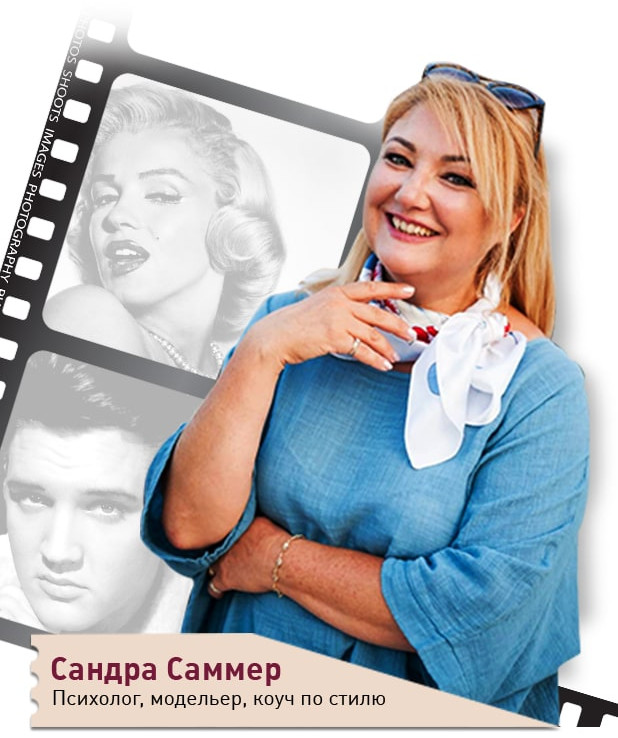
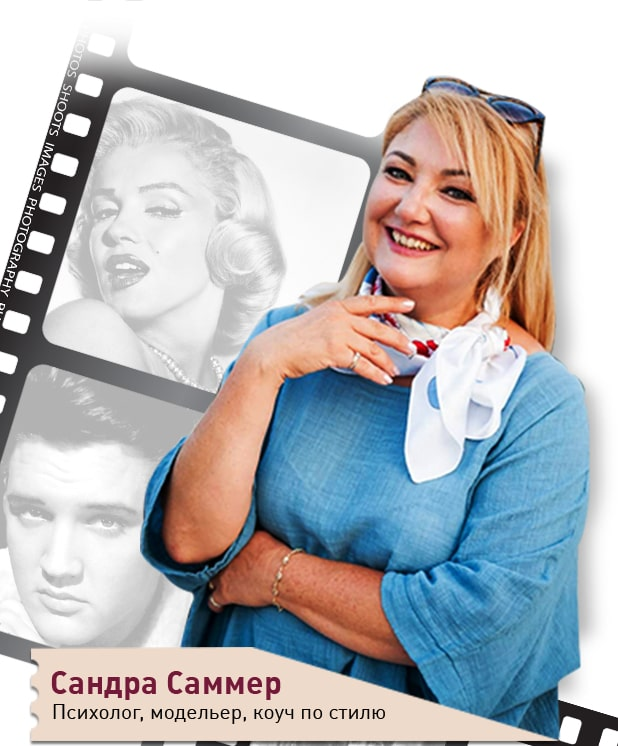
do-you-want section, mob vers

diff --git a/app/index.html b/app/index.html
@@ -273,7 +273,7 @@
 		</div>
 		
 		<img class="img-sandra" src="img/_src/screen-6-sandra.png" alt="Sandra Summer">
-		<img src="img/_src/screen-6-bgr-mob.jpg" class="media-main-bg" alt="">
+		<img src="img/_src/screen-6-bgr-mob.png" class="media-main-bg" alt="">
 
 		<div class="row">
 
@@ -461,49 +461,41 @@
 	<section id="goal-section" class="container">
 
 		<div class="row">
-			<div class="col-lg-3 offset-1">
+			<div class="col-lg-3 offset-lg-1 text-center">
 				<img class="img-frame" src="img/_src/screen-8-img1.png" alt="">
+				<p class="goal-first-text">Это будут увлекательные творческие <span class="text-bolder">10 дней, за<br class="media-br">которые вы разбудите своего внутреннего художника.</span></p>
 			</div>
-			<div class="col-lg-3">
+			<div class="col-lg-3 text-center">
 				<img src="img/_src/screen-8-img2.png" alt="">
-			</div>
-			<div class="col-lg-3">
-				<img class="img-frame-last" src="img/_src/screen-8-img3.png" alt="">
-			</div>
-		</div>
-		<div class="row">
-			<div class="col-lg-3 offset-2">
-				<p>Это будут увлекательные творческие <span class="text-bolder">10 дней, за<br>которые вы разбудите своего внутреннего художника.</span></p>
-			</div>
-			<div class="col-lg-3 offset-0">
 				<p><span class="text-bolder">Расширите свое сознание, найдете цвет</span>своего успеха, чтобы чувствовать себя дорого и выглядеть дорого.</p>
 			</div>
-			<div class="col-lg-3 offset-0">
-				<p><span class="text-bolder">Раскроете свою энергию и уникальность.</span>Клиенты, коллеги, партнеры начнут по-другому на вас реагировать. Ваша жизнь заиграет всеми красками.</p>
+			<div class="col-lg-3 text-center">
+				<img class="img-frame-last" src="img/_src/screen-8-img3.png" alt="">
+				<p class="goal-last-text"><span class="text-bolder">Раскроете свою энергию и уникальность.</span>Клиенты, коллеги, партнеры начнут по-другому на вас реагировать. Ваша жизнь заиграет всеми красками.</p>
 			</div>
 		</div>
 		<div class="count-items">
 			<div class="row">
-				<div class="col-lg-1 offset-3">
+				<div class="col-lg-1 offset-lg-3 text-center">
 					<img src="img/_src/screen-8-icon1.png" alt="">
 				</div>
-				<div class="col-lg-6">
+				<div class="col-lg-6 text-center">
 					<p><span class="text-bolder color-accent">Основная цель марафона</span>&mdash;показать вам, как всего лишь при помощи цвета можно транслировать образ востребованного и дорогого эксперта.</p>
 				</div>
 			</div>
 			<div class="row">
-				<div class="col-lg-1 offset-3">
+				<div class="col-lg-1 offset-lg-3 text-center">
 					<img src="img/_src/screen-8-icon2.png" alt="">
 				</div>
-				<div class="col-lg-6">
+				<div class="col-lg-6 text-center">
 					<p><span class="text-bolder color-accent">Побочный эффект марафона</span>&mdash;неожиданное исполнение желаний, омоложение, раскрытие творческого подхода к своему делу, высокий уровень энергии, приятное внимание и подарки от мужчин.</p>
 				</div>
 			</div>
 			<div class="row">
-				<div class="col-lg-1 offset-3">
+				<div class="col-lg-1 offset-lg-3 text-center">
 					<img src="img/_src/screen-8-icon3.png" alt="">
 				</div>
-				<div class="col-lg-6">
+				<div class="col-lg-6 text-center">
 					<p><span class="text-bolder color-accent">Удивительная возможность марафона</span>&mdash;раскрыть ваш  творческий и актерский потенциал, начать легко импровизировать перед камерой на вебинарах, транслируя высокие энергии и привлекая нужных клиентов.</p>
 				</div>
 			</div>
@@ -514,47 +506,48 @@
 
 	<!-- Do you want Section -->
 	<section id="do-you-want-section" class="container">
+		<img src="img/_src/screen-10-1-img-mob.jpg" class="media-main-bg" alt="">
 
 		<div class="row">
-			<div class="col-lg-6 offset-5">
+			<div class="col-lg-6 offset-lg-5">
 				<h2>хотите заявить о себе<br>как о дорогом эксперте? хотите<br>платежеспособных клиентов?</h2>
 			</div>
 		</div>
 
 		<div class="row">
-			<div class="col-lg-1 offset-4">
+			<div class="col-1 offset-1 offset-lg-4">
 				<img src="img/_src/screen-9-icon.png" alt="">
 			</div>
-			<div class="col-lg-6">
+			<div class="col-10 col-lg-6">
 				<p><span class="text-bolder color-accent">Измените свой образ &mdash; внутри на энергетическом плане и внешне в позиционировании в интернете.</span></p>
 			</div>
 		</div>
 		<div class="row">
-			<div class="col-lg-1 offset-4">
+			<div class="col-1 offset-1 offset-lg-4">
 				<img src="img/_src/screen-9-icon.png" alt="">
 			</div>
-			<div class="col-lg-6">
+			<div class="col-10 col-lg-6">
 				<p><span class="text-bolder color-accent">Станьте стильным и  добавьте энергии к своему новому образу.<br>&nbsp;</span></p>
 			</div>
 		</div>
 		<div class="row">
-			<div class="col-lg-1 offset-4">
+			<div class="col-1 offset-1 offset-lg-4">
 				<img src="img/_src/screen-9-icon.png" alt="">
 			</div>
-			<div class="col-lg-6">
+			<div class="col-10 col-lg-6">
 				<p><span class="text-bolder color-accent">Раскройте своего внутреннего художника и станьте творцом своей жизни.</span></p>
 			</div>
 		</div>
 		<div class="row">
-			<div class="col-lg-1 offset-4">
+			<div class="col-1 offset-1 offset-lg-4">
 				<img src="img/_src/screen-9-icon.png" alt="">
 			</div>
-			<div class="col-lg-6">
+			<div class="col-10 col-lg-6">
 				<p><span class="text-bolder color-accent">Добавьте яркости и драйва в ваши идеи и дела. И наконец-то начните жить по своим правилам, наслаждаясь каждым мгновением!</span></p>
 			</div>
 		</div>
 		<div class="row">
-			<div class="col-lg-6 offset-5">
+			<div class="col-10 offset-2 col-lg-6 offset-lg-5">
 				<p><span class="text-bolder">А я, со свой стороны, готова вам в этом помочь.</span></p>
 			</div>
 		</div>
@@ -941,7 +934,7 @@
 				<a href="https://www.facebook.com/aleksandra.naumova3" target="_blank"><img src="img/_src/screen-13-icon1.png" alt=""></a>
 				<a href="https://www.instagram.com/aleksandra.naumova3/" target="_blank"><img src="img/_src/screen-13-icon2.png" alt=""></a>
 				<a href="https://www.youtube.com/channel/UCzHlsxOsi86hfe7N5g31twg" target="_blank"><img src="img/_src/screen-13-icon3.png" alt=""></a>
-				<a href="#" target="_blank"><img src="img/_src/screen-13-icon4.png" alt=""></a>
+				<a href="https://vk.com/energia_stylia" target="_blank"><img src="img/_src/screen-13-icon4.png" alt=""></a>
 				<a href="https://a-naumova.com/" target="_blank"><img src="img/_src/screen-13-icon5.png" alt=""></a>
 			</div>
 		</div>

diff --git a/app/sass/_media.sass b/app/sass/_media.sass
@@ -12,6 +12,8 @@
 		background-image: none
 		width: 100%
 		height: auto
+		.media-main-bg
+			margin: auto
 		.main-section-text
 			top: 0
 		.media-cover
@@ -59,6 +61,8 @@
 		padding: 0
 		width: auto
 		height: auto
+		.media-img-secret
+			margin: auto
 		h2
 			margin-top: 55px
 			padding-bottom: 30px
@@ -125,6 +129,9 @@
 		background-image: none
 		height: auto
 		background: linear-gradient($light-gray-color, white)
+		.media-main-bg
+			margin: 20px auto
+			max-width: 90%
 		.img-sandra, .img-logo
 			display: none
 		h2
@@ -164,6 +171,32 @@
 				padding: 0px 10px 4px 10px
 		.slick-list
 			padding: 2px
+
+	#goal-section
+		background-image: url('../img/_src/screen-8-bgr-mob.jpg')
+		background-position: top
+		background-repeat: no-repeat
+		background-size: cover
+		height: auto
+		p
+			padding: 0 15px 25px 15px !important
+			margin: 0 !important
+
+	#do-you-want-section
+		background-image: none
+		height: auto
+		h2
+			background-image: url('../img/_src/screen-11-img-mob.png')
+			background-position: center
+			background-repeat: no-repeat
+			background-size: cover
+			height: 317px
+			padding-top: 55px
+			margin: 0 0 30px 0
+			text-align: center
+		p
+			padding-right: 15px
+
 
 	.media-main-bg
 		display: block
@@ -187,6 +220,8 @@
 		background-image: none
 		width: 100%
 		height: auto
+		.media-main-bg
+			margin: auto
 		.main-section-text
 			top: 0
 		.media-cover
@@ -234,6 +269,8 @@
 		padding: 0
 		width: auto
 		height: auto
+		.media-img-secret
+			margin: auto
 		h2
 			margin-top: 55px
 			padding-bottom: 30px
@@ -300,6 +337,9 @@
 		background-image: none
 		height: auto
 		background: linear-gradient($light-gray-color, white)
+		.media-main-bg
+			margin: 20px auto
+			max-width: 90%
 		.img-sandra, .img-logo
 			display: none
 		h2
@@ -317,6 +357,8 @@
 			padding-right: 15px
 
 	#reviews-section
+		background-image: none
+		height: auto
 		iframe
 			padding-right: 4px
 			padding-left: 4px
@@ -337,6 +379,32 @@
 				padding: 0px 10px 4px 10px
 		.slick-list
 			padding: 2px
+
+	#goal-section
+		background-image: url('../img/_src/screen-8-bgr-mob.jpg')
+		background-position: top
+		background-repeat: no-repeat
+		background-size: cover
+		height: auto
+		p
+			padding: 0 15px 25px 15px !important
+			margin: 0 !important
+
+	#do-you-want-section
+		background-image: none
+		height: auto
+		h2
+			background-image: url('../img/_src/screen-11-img-mob.png')
+			background-position: center
+			background-repeat: no-repeat
+			background-size: cover
+			height: 317px
+			padding-top: 55px
+			margin: 0 0 30px 0
+			text-align: center
+		p
+			padding-right: 15px
+
 
 	.media-main-bg
 		display: block

diff --git a/app/sass/main.sass b/app/sass/main.sass
@@ -326,6 +326,12 @@ body
 	background-repeat: no-repeat
 	width: auto
 	height: 891px
+	.goal-first-text
+		margin-top: 15px
+		margin-left: 10px
+		padding-left: 0
+	.goal-last-text
+		margin-top: 50px
 	.img-frame
 		margin-left: 30px
 	.img-frame-last
